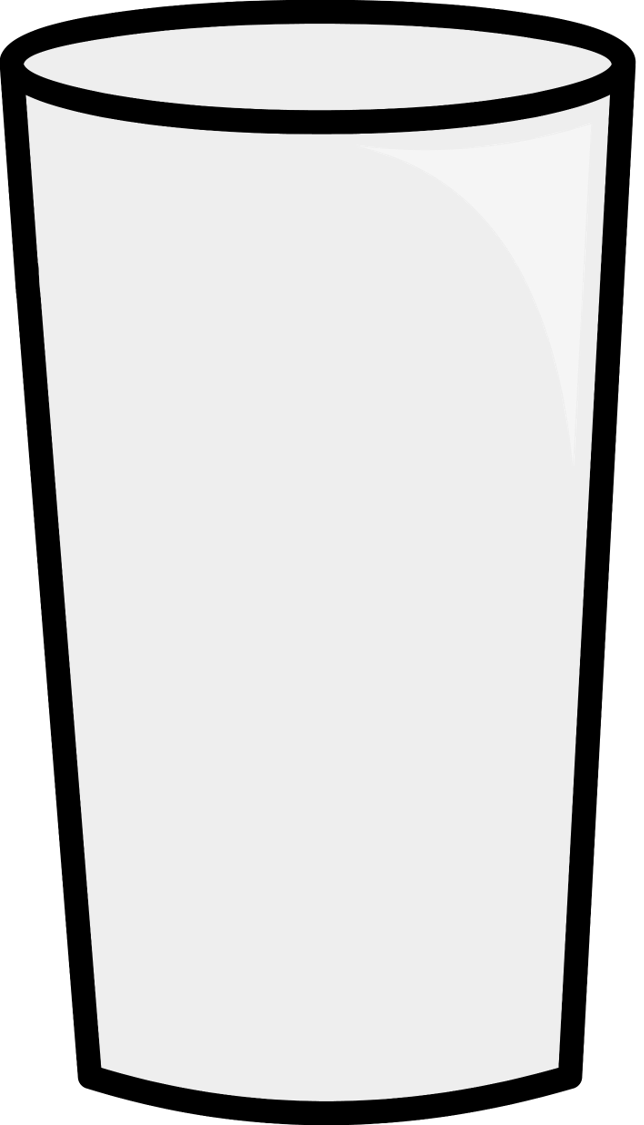
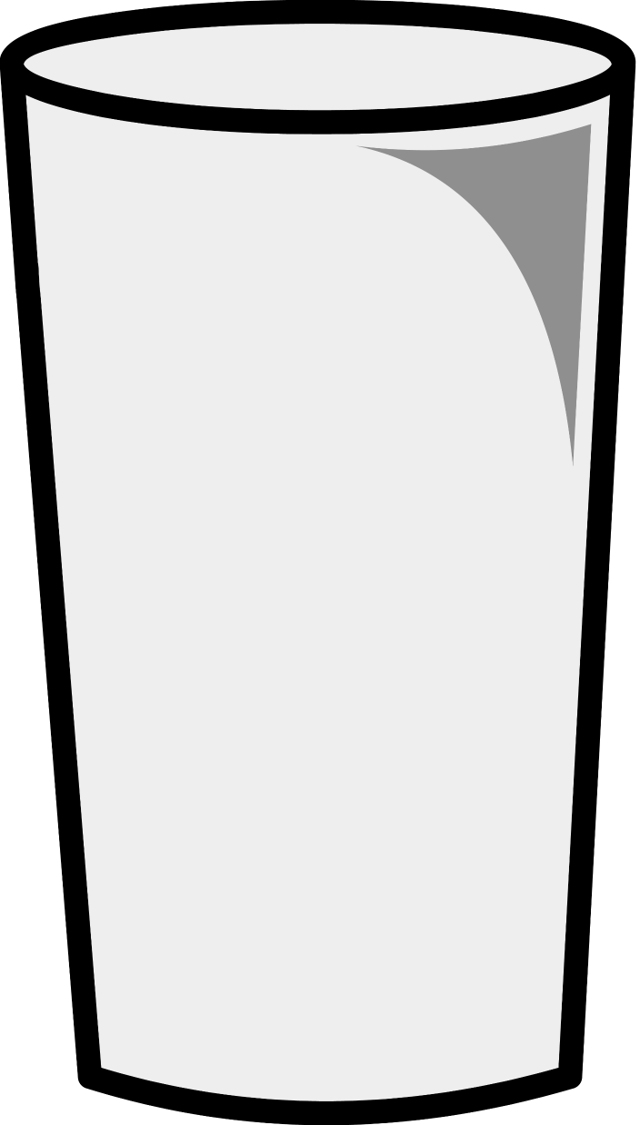
Water

diff --git a/lib/pages/mood_page.dart b/lib/pages/mood_page.dart
@@ -3,6 +3,8 @@ import 'package:intl/intl.dart';
 import 'package:cloud_firestore/cloud_firestore.dart';
 import 'package:aura_journal/firestore_service.dart';
 import 'package:fl_chart/fl_chart.dart';
+import 'package:http/http.dart' as http;
+import 'dart:convert';
 
 class MoodPage extends StatefulWidget {
   const MoodPage({super.key});
@@ -111,81 +113,113 @@ class _MoodPageState extends State<MoodPage> {
         }
 
         Map<int, int> moodCounts = snapshot.data!;
-        return Column(
-          children: [
-            Text(
-              'Moods for ${months[month - 1]} $currentYear',
-              style: TextStyle(fontSize: 20, fontWeight: FontWeight.bold,color: Color(0xFF83C2D9) ),
-            ),
-            SizedBox(height: 20),
-            Expanded(
-              child: Padding(
-                padding: const EdgeInsets.all(50.0), // Add padding to center the graph
-                child: BarChart(
-                    BarChartData(
-                      alignment: BarChartAlignment.spaceAround,
-                      barGroups: moodCounts.entries.map((entry) {
-                        return BarChartGroupData(
-                          x: entry.key,
-                          barRods: [
-                            BarChartRodData(
-                              toY: entry.value.toDouble(),
-                              color: Color(0xFF83C2D9),
-                              width: 40,
-                              borderRadius: BorderRadius.circular(4),
+
+        // Calculate the most frequent mood
+        int mostFrequentMood = moodCounts.entries.reduce((a, b) => a.value > b.value ? a : b).key;
+
+        // Fetch a quote for the most frequent mood
+        return FutureBuilder<String>(
+          future: fetchMoodQuote(_getMoodName(mostFrequentMood)), // Fetch quote
+          builder: (context, quoteSnapshot) {
+            return Column(
+              children: [
+                Text(
+                  'Moods for ${months[month - 1]} $currentYear',
+                  style: TextStyle(fontSize: 20, fontWeight: FontWeight.bold, color: Color(0xFF83C2D9)),
+                ),
+                if (quoteSnapshot.connectionState == ConnectionState.waiting)
+                  CircularProgressIndicator()
+                else if (quoteSnapshot.hasError)
+                  Text("Failed to fetch quote.")
+                else
+                  Padding(
+                    padding: const EdgeInsets.all(16.0),
+                    child: Text(
+                      quoteSnapshot.data ?? "No quote available.",
+                      style: TextStyle(fontSize: 16, fontStyle: FontStyle.italic, color: Colors.black54),
+                      textAlign: TextAlign.center,
+                    ),
+                  ),
+                SizedBox(height: 20),
+                Expanded(
+                  child: Padding(
+                    padding: const EdgeInsets.all(50.0),
+                    child: BarChart(
+                      BarChartData(
+                        alignment: BarChartAlignment.spaceAround,
+                        barGroups: moodCounts.entries.map((entry) {
+                          return BarChartGroupData(
+                            x: entry.key,
+                            barRods: [
+                              BarChartRodData(
+                                toY: entry.value.toDouble(),
+                                color: Color(0xFF83C2D9),
+                                width: 40,
+                                borderRadius: BorderRadius.circular(4),
+                              ),
+                            ],
+                            showingTooltipIndicators: [0],
+                          );
+                        }).toList(),
+                        maxY: daysInMonth.toDouble(),
+                        titlesData: FlTitlesData(
+                          leftTitles: AxisTitles(
+                            sideTitles: SideTitles(showTitles: false),
+                          ),
+                          bottomTitles: AxisTitles(
+                            sideTitles: SideTitles(
+                              showTitles: true,
+                              reservedSize: 60,
+                              getTitlesWidget: (value, meta) {
+                                return Padding(
+                                  padding: EdgeInsets.all(10.0),
+                                  child: _buildIcon(value.toInt()),
+                                );
+                              },
                             ),
-                          ],
-                          showingTooltipIndicators: [0], // Enable tooltips if necessary
-                        );
-                      }).toList(),
-                      maxY: daysInMonth.toDouble(),
-                      titlesData: FlTitlesData(
-                        leftTitles: AxisTitles(
-                          sideTitles: SideTitles(showTitles: false), // Hide left Y-axis
+                          ),
+                          rightTitles: AxisTitles(
+                            sideTitles: SideTitles(showTitles: false),
+                          ),
+                          topTitles: AxisTitles(
+                            sideTitles: SideTitles(showTitles: false),
+                          ),
                         ),
-                        bottomTitles: AxisTitles(
-                          sideTitles: SideTitles(
-                            showTitles: true,
-                            reservedSize: 60,
-                            getTitlesWidget: (value, meta) {
-                             return Padding(padding: EdgeInsets.all(10.0),
-                               child:_buildIcon(value.toInt()));
+                        barTouchData: BarTouchData(
+                          touchTooltipData: BarTouchTooltipData(
+                            tooltipHorizontalAlignment: FLHorizontalAlignment.center,
+                            getTooltipItem: (group, groupIndex, rod, rodIndex) {
+                              return BarTooltipItem(
+                                rod.toY.toInt().toString(),
+                                TextStyle(
+                                  color: Color(0xFF83C2D9),
+                                  fontWeight: FontWeight.bold,
+                                ),
+                              );
                             },
                           ),
                         ),
-                        rightTitles: AxisTitles(
-                          sideTitles: SideTitles(showTitles: false),
-                        ),
-                        topTitles: AxisTitles(
-                          sideTitles: SideTitles(showTitles: false),
-                        ),
+                        gridData: FlGridData(show: false), // Remove gridlines
+                        borderData: FlBorderData(show: false), // Remove borders
                       ),
-
-                      barTouchData: BarTouchData(
-                        touchTooltipData: BarTouchTooltipData(
-                          tooltipHorizontalAlignment: FLHorizontalAlignment.center,
-                          getTooltipItem: (group, groupIndex, rod, rodIndex) {
-                            return BarTooltipItem(
-                              rod.toY.toInt().toString(),
-                              TextStyle(
-                                color: Color(0xFF83C2D9),
-                                fontWeight: FontWeight.bold,
-                              ),
-                            );
-                          },
-                        ),
-                      ),
-                      gridData: FlGridData(show: false), // Remove gridlines
-                      borderData: FlBorderData(show: false), // Remove borders
-                    )
+                    ),
+                  ),
                 ),
-              ),
-            ),
-          ],
+              ],
+            );
+          },
         );
       },
     );
   }
+
+  String _getMoodName(int moodIndex) {
+    const moodNames = [
+      "anger", "sad", "neutral", "happy", "joyful"
+    ]; // Adjust to match your moods
+    return moodIndex >= 0 && moodIndex < moodNames.length ? moodNames[moodIndex] : "neutral";
+  }
+
   Future<Map<int, int>> _getMonthlyMoodCounts(int year, int month) async {
     Map<int, int> moodCounts = {0: 0, 1: 0, 2: 0, 3: 0, 4: 0};
 
@@ -205,8 +239,6 @@ class _MoodPageState extends State<MoodPage> {
     }
     return moodCounts;
   }
-
-
 
   Widget monthlyView() {
     return GridView.count(
@@ -307,6 +339,27 @@ class _MoodPageState extends State<MoodPage> {
   Widget initialView() {
     return emotionView(DateTime.now().month);
   }
+
+  //Code for fetch quote api
+  Future<String>fetchMoodQuote(String mood) async{
+    const String baseUrl = "https://mood-based-quote-api.p.rapidapi.com/";
+    const Map<String, String> headers = {
+      "X-RapidAPI-Key": "83586a7b1amshbd3b1190668f113peff0bjsn09a2cc3b7c60", // Replace with your actual API key
+      "X-RapidAPI-Host": "mood-based-quote-api.p.rapidapi.com"
+    };
+
+    final String url = "$baseUrl$mood";
+
+    final response = await http.get(Uri.parse(url), headers: headers);
+
+    if (response.statusCode == 200) {
+      final data = jsonDecode(response.body);
+      return data['quote'] ?? "No quote found.";
+    } else {
+      throw Exception("Failed to fetch quote: ${response.reasonPhrase}");
+    }
+  }
+
 
   @override
   Widget build(BuildContext context) {

diff --git a/lib/pages/water_page.dart b/lib/pages/water_page.dart
@@ -9,18 +9,56 @@ class WaterPage extends StatefulWidget {
 }
 
 class _WaterPageState extends State<WaterPage> {
-  double fillPercentage = 0.0;
+  double fillPercentage = 1.0; // means full cup
+  int counter = 0; // Counter for how many times the cup has been emptied
 
   void increaseFill() {
     setState(() {
-      // Increment fill by 1/4 each time, up to full **TO BE CHANGED***
-      fillPercentage = (fillPercentage + 0.25).clamp(0.0, 1.0);
+      fillPercentage = (fillPercentage + 0.125).clamp(0.0, 1.0); //clamp restricts a value to certain range so that water no overflow
     });
   }
 
   void decreaseFill() {
     setState(() {
-      fillPercentage = (fillPercentage - 0.25).clamp(0.0, 1.0);
+      fillPercentage = (fillPercentage - 0.125).clamp(0.0, 1.0);
+      if (fillPercentage == 0.0 && counter < 8) {
+        counter++;
+        if (counter < 8) {
+          showDialog(
+            context: context,
+            builder: (context) => AlertDialog(
+              title: Text("Good Job!"),
+              content: Text("You drank $counter/8 cups of water!"),
+              actions: [
+                TextButton(
+                  onPressed: () {
+                    Navigator.of(context).pop();
+                    setState(() {
+                      fillPercentage = 1.0; // refills the cup
+                    });
+                  },
+                  child: Text("OK"),
+                ),
+              ],
+            ),
+          );
+        } else {
+          // This will not make the water fill up if you already drank 8 cups
+          showDialog(
+            context: context,
+            builder: (context) => AlertDialog(
+              title: Text("Congratulations!"),
+              content: Text("You completed 8/8 cups of water for the day!"),
+              actions: [
+                TextButton(
+                  onPressed: () => Navigator.of(context).pop(),
+                  child: Text("OK"),
+                ),
+              ],
+            ),
+          );
+        }
+      }
     });
   }
 
@@ -29,15 +67,20 @@ class _WaterPageState extends State<WaterPage> {
     return Scaffold(
       appBar: AppBar(
         title: Text("Water Tracker"),
+        centerTitle: true,
       ),
       body: Center(
         child: Column(
           mainAxisAlignment: MainAxisAlignment.center,
           children: [
+            Text(
+              "Cups Drank: $counter/8",
+              style: TextStyle(fontSize: 20, fontWeight: FontWeight.bold),
+            ),
+            SizedBox(height: 20),
             Stack(
               alignment: Alignment.bottomCenter,
               children: [
-                // Water fill background
                 ClipRect(
                   child: Align(
                     alignment: Alignment.bottomCenter,
@@ -50,7 +93,7 @@ class _WaterPageState extends State<WaterPage> {
                   ),
                 ),
                 Image.asset(
-                  'assets/cup.png',
+                  'assets/emptycup.png',
                   width: 250,
                   height: 300,
                   fit: BoxFit.fill,
@@ -58,13 +101,19 @@ class _WaterPageState extends State<WaterPage> {
               ],
             ),
             SizedBox(height: 20),
-            ElevatedButton(
-              onPressed: increaseFill,
-              child: Text("Fill Cup"),
-            ),
-            ElevatedButton(
-              onPressed: decreaseFill,
-              child: Text("Decrease Cup"),
+            Row(
+              mainAxisAlignment: MainAxisAlignment.center,
+              children: [
+                ElevatedButton(
+                  onPressed: counter >= 8 ? null : increaseFill, // Disable if counter is 8 or more
+                  child: Text("Fill Cup"),
+                ),
+                SizedBox(width: 20),
+                ElevatedButton(
+                  onPressed: decreaseFill,
+                  child: Text("Drink Water"),
+                ),
+              ],
             ),
           ],
         ),
